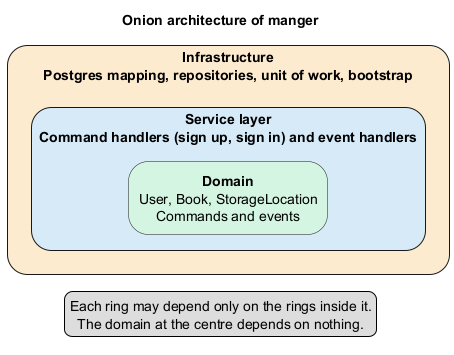
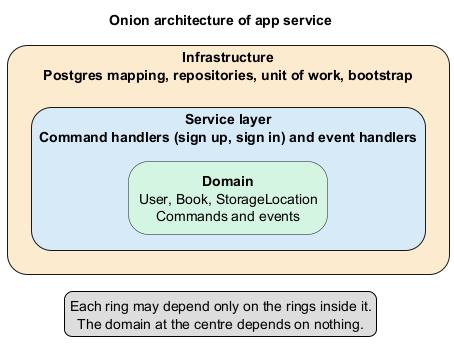
finish designs

Changed region(s): [[0.2159, 0.031, 0.7401, 0.093]]

diff --git a/services/chatbot/manger/services/commands_handlers.py b/services/chatbot/manger/services/commands_handlers.py
@@ -3,6 +3,7 @@ The book's path is read from the app database through the view.
 """
 
 from collections.abc import Callable
+from dataclasses import replace
 from datetime import datetime, timedelta, timezone
 from pathlib import Path
 from typing import Any
@@ -29,6 +30,14 @@ class UnsupportedStorage(Exception):
 
 class UnknownSession(Exception):
     pass
+
+
+# Sent with the book text. It is not stored, so older chats follow it too.
+REPLY_PROMPT = (
+    "Answer in plain text only, in the same language as the question. "
+    "Keep the reply short or medium, a few simple sentences. "
+    "Do not use markdown, bullets, headings, stars, numbering, or symbols.\n\n"
+)
 
 
 def _user_db() -> AbstractUserUnitOfWork:
@@ -101,7 +110,7 @@ def infer(
             content=text,
             content_type=ContentType.TEXT,
         )
-        reply = model.send([*session.messages, user_message])
+        reply = model.send(_with_reply_prompt([*session.messages, user_message]))
         session.add_message(user_message)
         session.add_message(
             Message(
@@ -113,6 +122,16 @@ def infer(
         )
         uow.commit()
     return reply
+
+
+def _with_reply_prompt(messages: list[Message]) -> list[Message]:
+    """Ask for a plain, short or medium reply without changing stored history."""
+    for index, message in enumerate(messages):
+        if message.turn is Turn.SYSTEM:
+            prompted = list(messages)
+            prompted[index] = replace(message, content=REPLY_PROMPT + message.content)
+            return prompted
+    return messages
 
 
 def _provider() -> AiProvider:

diff --git a/services/chatbot/tests/entrypoints/test_fastapi_app.py b/services/chatbot/tests/entrypoints/test_fastapi_app.py
@@ -47,7 +47,8 @@ def test_create_session_then_infer_returns_the_model_reply():
     assert answer.status_code == 200
     assert answer.json() == {"message": "Chapter one."}
     assert [item.turn for item in provider.sent[0]] == [Turn.SYSTEM, Turn.USER]
-    assert provider.sent[0][0].content == "Page 1\nHello"
+    assert provider.sent[0][0].content.endswith("Page 1\nHello")
+    assert "plain text" in provider.sent[0][0].content
     assert provider.sent[0][1].content == "What is this?"
     stored = uow.sessions.get(UUID(session_id))
     assert [item.turn for item in stored.messages] == [Turn.SYSTEM, Turn.USER, Turn.AI]
